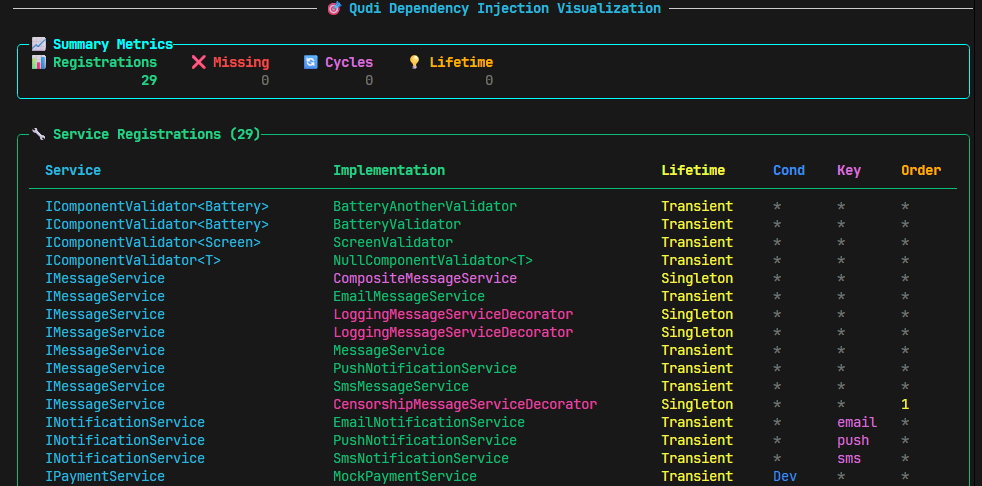
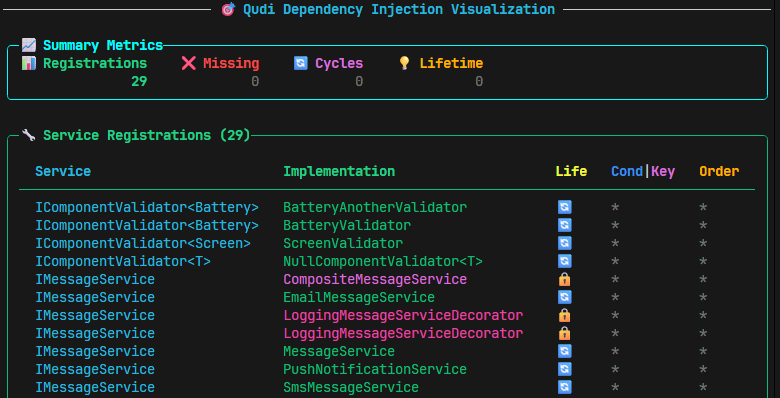
Refactor table rendering in QudiVisualizationConsoleRenderer: shorten lifetime and condition columns, and improve emoji representation for lifetimes.

diff --git a/src/Qudi.Visualizer/QudiVisualizationConsoleRenderer.cs b/src/Qudi.Visualizer/QudiVisualizationConsoleRenderer.cs
@@ -123,28 +123,25 @@ internal class QudiVisualizationConsoleRenderer(IAnsiConsole AnsiConsole)
             .Expand()
             .AddColumn(new TableColumn("[bold cyan]Service[/]"))
             .AddColumn(new TableColumn("[bold green]Implementation[/]"))
-            .AddColumn(new TableColumn("[bold yellow]Lifetime[/]"))
-            .AddColumn(new TableColumn("[bold blue]Cond[/]"))
-            .AddColumn(new TableColumn("[bold magenta]Key[/]"))
+            .AddColumn(new TableColumn("[bold yellow]Life[/]"))
+            .AddColumn(new TableColumn("[bold blue]Cond[/]|[bold magenta]Key[/]"))
             .AddColumn(new TableColumn("[bold orange1]Order[/]"));
 
         foreach (var row in rows)
         {
-            // Combine condition info - keep it concise
-            var condition = "";
-            if (row.When == "*")
+            // lifetime
+            var lifeTimeEmoji = row.Lifetime switch
             {
-                condition = Nothing;
-            }
-            else
-            {
-                // Shorten condition names
-                var whenText = row.When.Replace("Development", "Dev").Replace("Production", "Prod");
-                condition = $"[blue]{whenText}[/]";
-            }
+                "Transient" => "🔄",
+                "Scoped" => "📦",
+                "Singleton" => "🔒",
+                _ => "",
+            };
 
-            var key = row.Key != "-" ? $"[magenta]{row.Key}[/]" : Nothing;
+            // condition and key
+            var condKey = DetermineCondAndKey(row);
 
+            // order
             var orderText = row.Order switch
             {
                 < 0 => $"[red]{row.Order}[/]",
@@ -166,9 +163,8 @@ internal class QudiVisualizationConsoleRenderer(IAnsiConsole AnsiConsole)
             table.AddRow(
                 $"[{serviceColor}]{Markup.Escape(row.Service)}[/]",
                 $"[{implColor}]{Markup.Escape(row.Implementation)}[/]",
-                $"[yellow]{row.Lifetime}[/]",
-                condition,
-                key,
+                $"[yellow]{lifeTimeEmoji}[/]",
+                condKey,
                 orderText
             );
         }
@@ -183,6 +179,29 @@ internal class QudiVisualizationConsoleRenderer(IAnsiConsole AnsiConsole)
             BorderStyle = new Style(Color.Green),
             Expand = true,
         };
+    }
+
+    private string DetermineCondAndKey(QudiRegistrationTableRow row)
+    {
+        var whenMissing = row.When == "*";
+        var keyMissing = row.Key == "-";
+        var whenText = row.When.Replace("Development", "Dev").Replace("Production", "Prod");
+        var whenMarkup = $"[magenta]{row.Key}[/]";
+        var keyMarkup = $"[blue]{whenText}[/]";
+
+        if (whenMissing && keyMissing)
+        {
+            return "[dim]*[/]";
+        }
+        else if (whenMissing)
+        {
+            return whenMarkup;
+        }
+        else if (keyMissing)
+        {
+            return keyMarkup;
+        }
+        return $"{whenMarkup}|{keyMarkup}";
     }
 
     private Panel CreateIssuesPanel(
